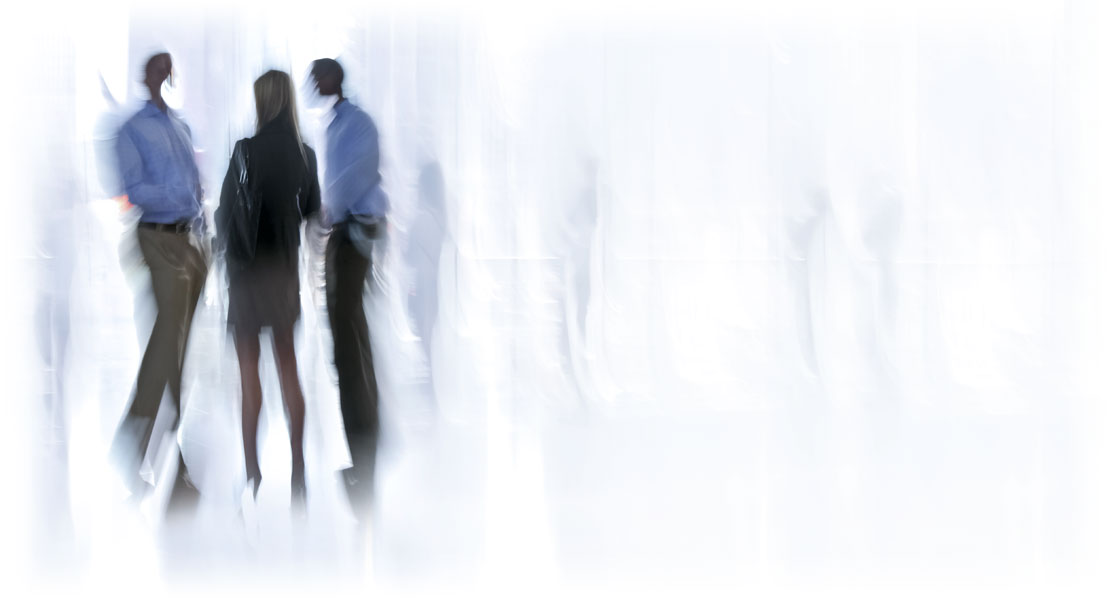
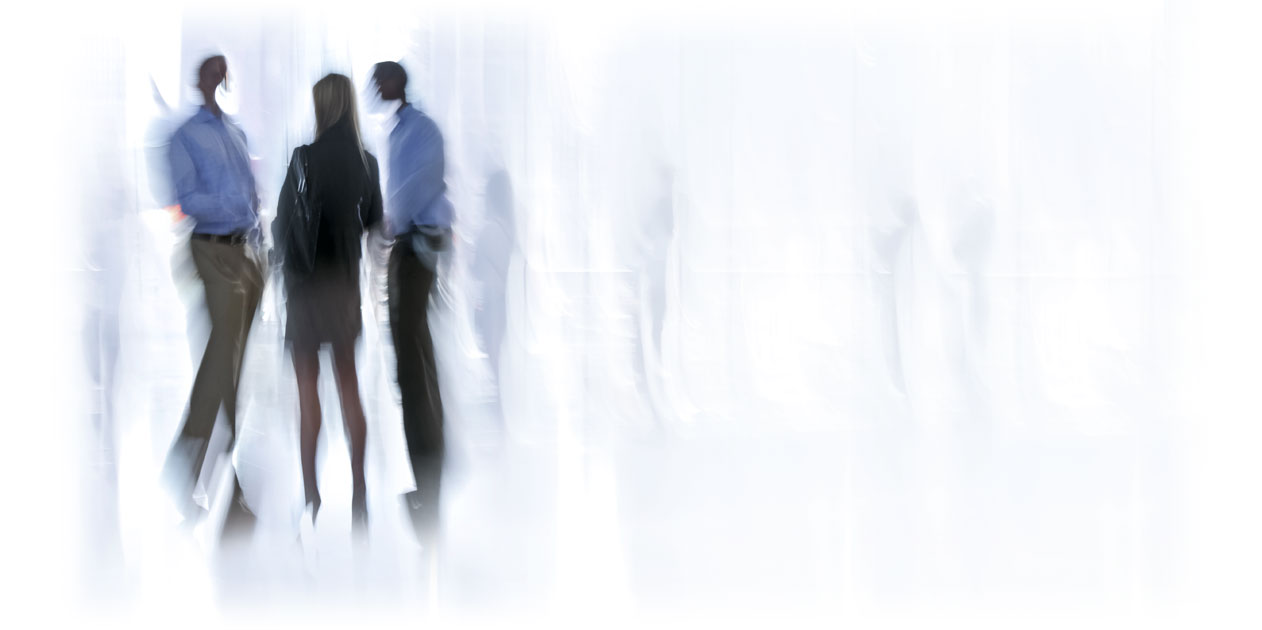
Maestro : actualisation image de fond et hauteur minimale de ce dernier

Changed region(s): [[0.0305, 0.06, 0.4273, 0.96]]

diff --git a/dmCorePlugin/plugins/sfLESSPlugin/data/_templates/maestroTheme/Grids/Types/Grid_Default/_GridInit.less b/dmCorePlugin/plugins/sfLESSPlugin/data/_templates/maestroTheme/Grids/Types/Grid_Default/_GridInit.less
@@ -33,7 +33,7 @@
 }
 
 //Hauteur minimale de la zone de contenu
-#dm_main { min-height: @gridBaseline*30; }
+#dm_main { min-height: @gridBaseline*35; }
 // @media only screen and (min-height: 600px) { #dm_main { min-height: 450px; } }
 // @media only screen and (min-height: 768px) { #dm_main { min-height: 550px; } }
 // @media only screen and (min-height: 1024px) { #dm_main { min-height: 750px; } }

diff --git a/dmCorePlugin/plugins/sfLESSPlugin/data/_templates/maestroTheme/Areas/_Areas.less b/dmCorePlugin/plugins/sfLESSPlugin/data/_templates/maestroTheme/Areas/_Areas.less
@@ -21,6 +21,7 @@
 
 //couleur de la zone située sous le header jusqu'en bas
 #dm_main {
+	//taille par défaut : 1262*630
 	background-image: url(@{mainBgImageUrl});
 	background-repeat: no-repeat;
 	background-position: 50% top;
